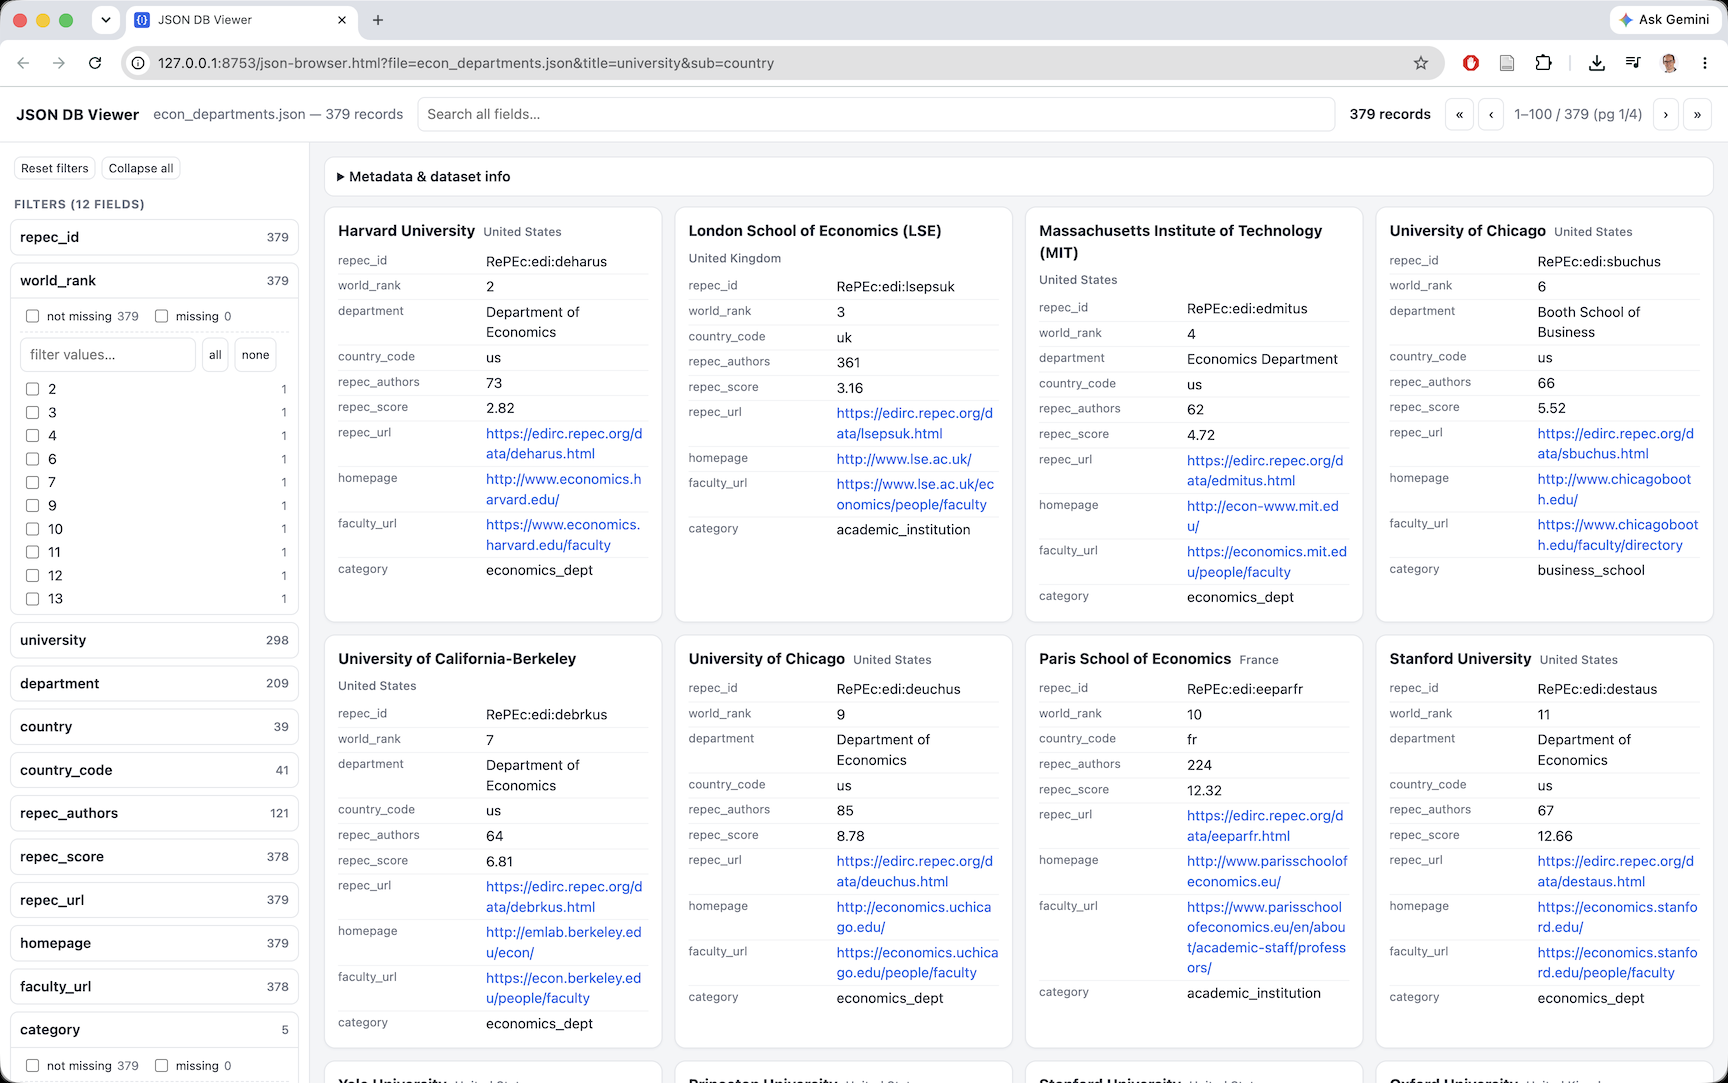
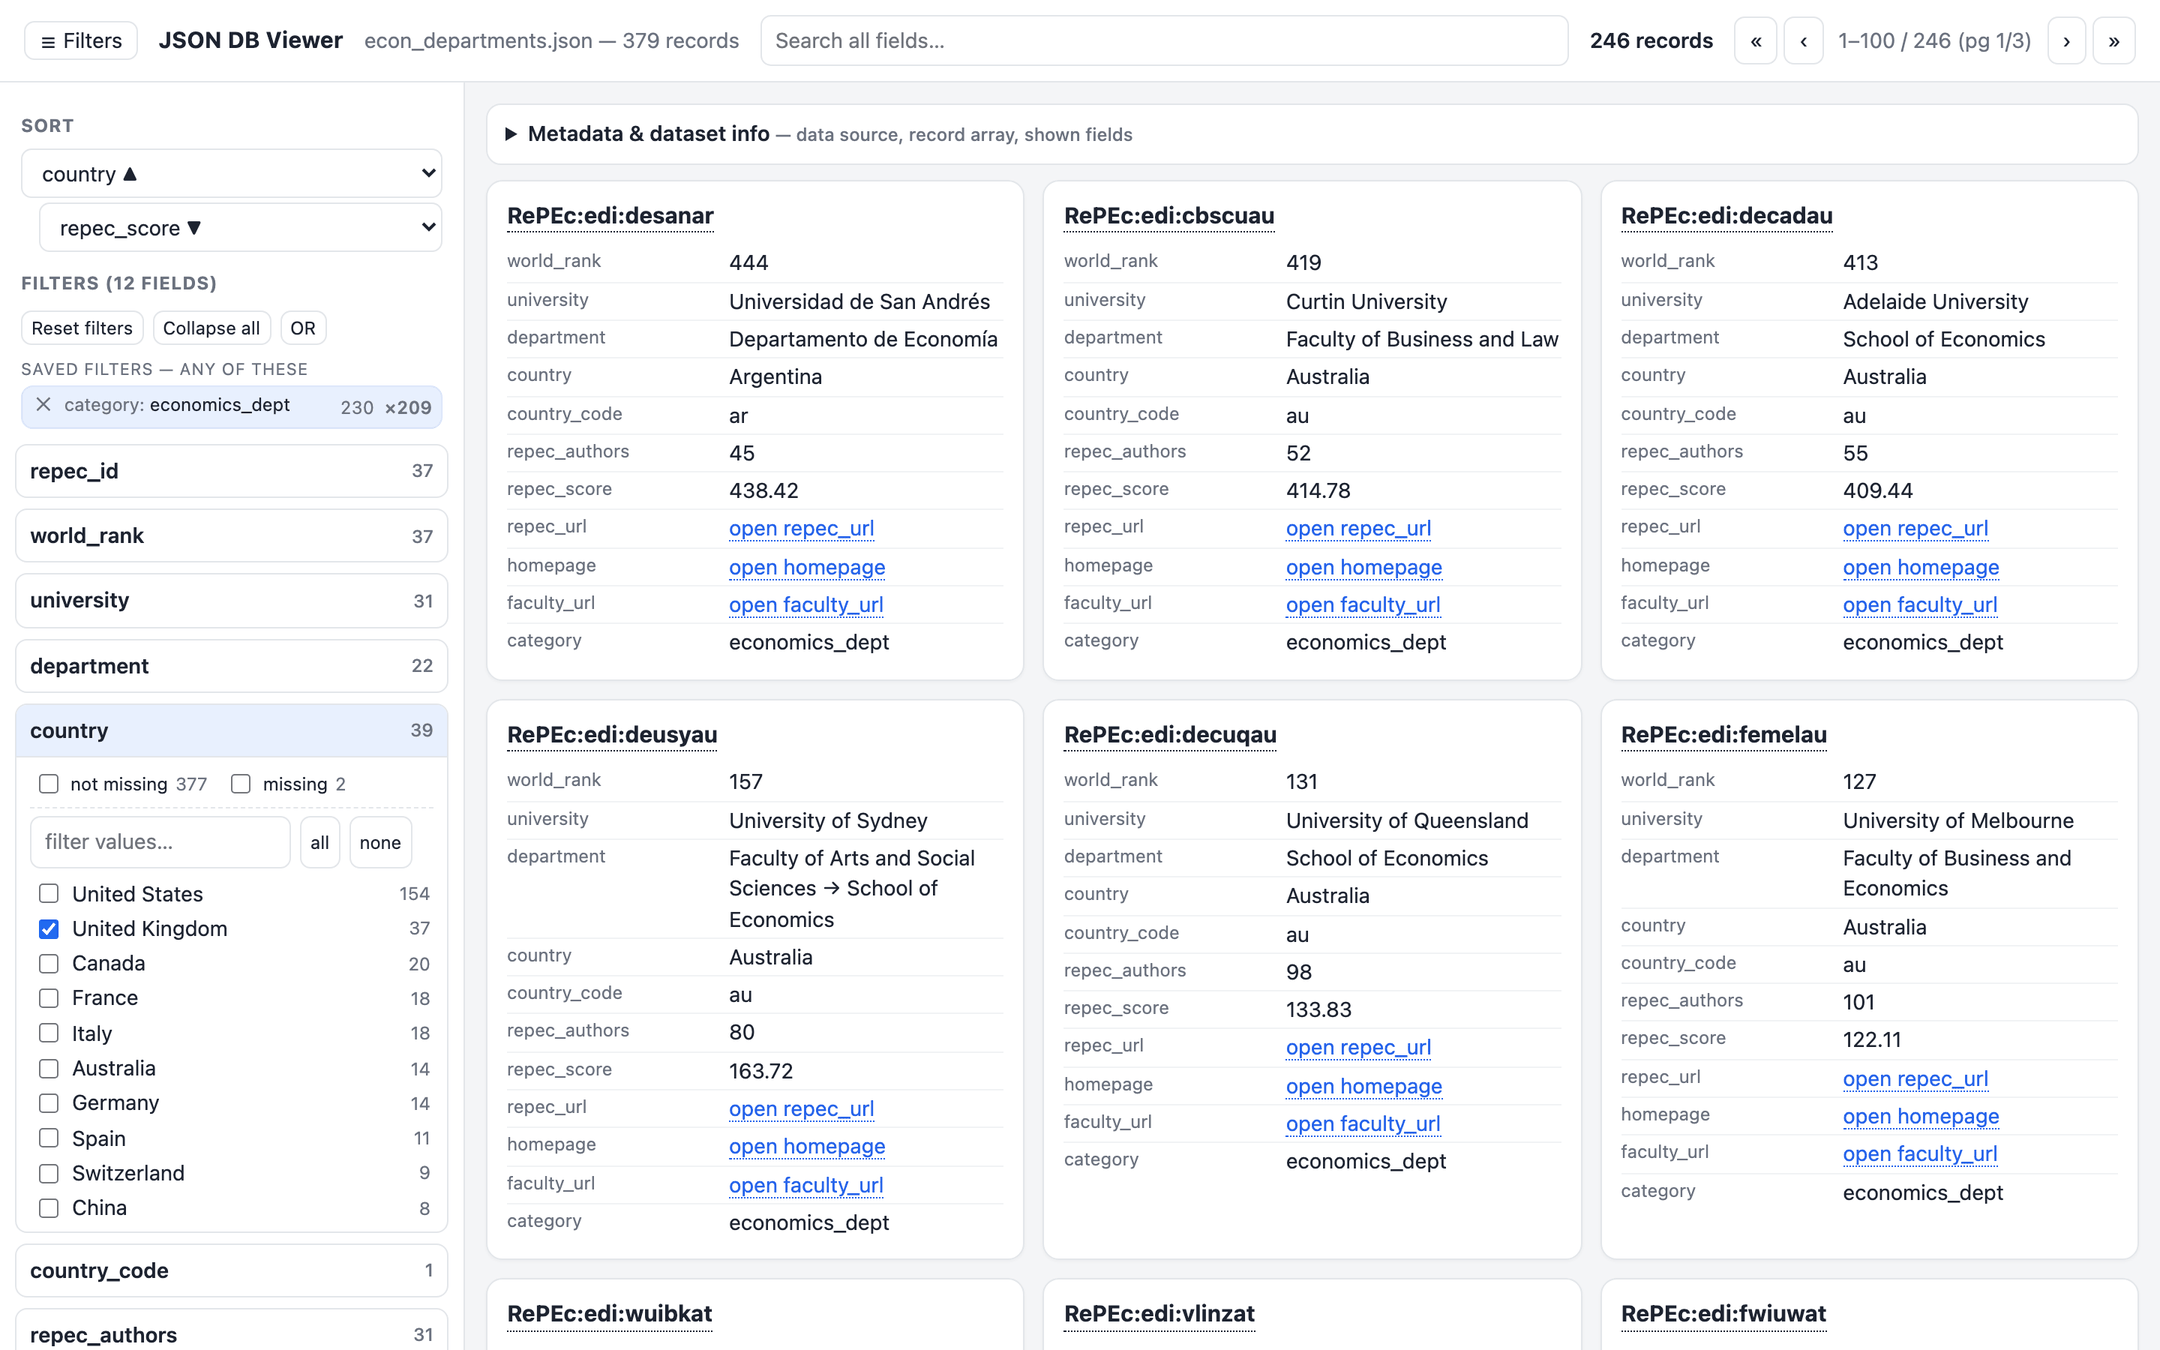
Help for OR button, update readme

diff --git a/json/json-browser.html b/json/json-browser.html
@@ -88,6 +88,7 @@
   .vrow .vc{color:var(--muted);font-size:12px;flex:none}
   .mini{font-size:12px;padding:2px 6px}
   .side .actions{display:flex;gap:6px;margin:4px 4px 6px}
+  .side .actions .ortip{display:flex}   /* transparent wrapper: no inline leading of its own */
   .sortbox{margin:0 4px 2px}
   .sortbox select{width:100%}
   .sortbox .slev+.slev{margin-top:3px}      /* each further level steps in a little */
@@ -108,7 +109,9 @@
   .clause .cx{flex:none;border:none;background:none;color:var(--muted);cursor:pointer;
               font-size:13px;line-height:1;padding:1px 3px;border-radius:4px}
   .clause .cx:hover{background:#fff;color:var(--no)}
-  #orFilter:disabled{opacity:.45;cursor:default}
+  /* pointer-events:none lets the hover land on .ortip instead, so the help tooltip
+     still appears while the button is disabled (it ignores clicks either way) */
+  #orFilter:disabled{opacity:.45;cursor:default;pointer-events:none}
   /* options block */
   .opts{display:flex;flex-direction:column;gap:8px;border:1px solid var(--line);border-radius:8px;padding:9px;background:#fff}
   .opts label{display:flex;flex-direction:column;gap:3px;font-size:12px;color:var(--muted)}
@@ -206,7 +209,15 @@
     <div class="actions">
       <button class="mini" id="resetFilters">Reset filters</button>
       <button class="mini" id="collapseAll">Collapse all</button>
-      <button class="mini" id="orFilter" title="Save these filters and start a new set — records matching ANY saved set are shown">OR</button>
+      <!-- the help sits on the wrapper: a disabled button never shows its own tooltip,
+           and this one is disabled exactly when nothing is filtered yet -->
+      <span class="ortip" title="OR — show records matching ANY of several filter sets.
+
+Set up filters, then press OR: they are saved as a set and the panels clear, ready for the next one. A record is shown if it matches any saved set, or the panels you are filling in now.
+
+Each saved set shows how many records it matches, and after × how many would disappear if you removed it with ✕.">
+        <button class="mini" id="orFilter">OR</button>
+      </span>
     </div>
     <div id="clauses"></div>
     <div id="filters"></div>

diff --git a/json/readme.md b/json/readme.md
@@ -8,6 +8,14 @@ fetching the file you point it at.
 Nothing is hard-coded to a dataset: it inspects whatever JSON you load, finds the
 record array and the fields, and builds the interface around them.
 
+![The viewer on the bundled dataset](screenshot.png)
+
+*Above, on `econ_departments.json`: records sorted by country and then by score
+descending; one [saved filter set](#combining-sets-of-filters-with-or) OR-ed with
+the panels, showing that it matches 230 records of which 209 depend on it; filter
+values ordered [commonest first](#filtering); and `repec_id` values resolved into
+[EDIRC links](#identifiers) with long URLs collapsed to what following them does.*
+
 ---
 
 ## Quick start
@@ -59,8 +67,6 @@ object or array is **nested**, and appears as a collapsible expander instead.
 ---
 
 ## Layout
-
-![JSON DB Viewer — sidebar filters, faceted counts, and record cards](screenshot.png)
 
 - **Header** — the **☰** panel button, filename, **search** box, live record count,
   and pagination (hidden when *Records per page* is `all`).
